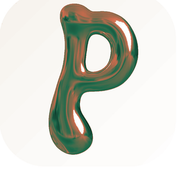
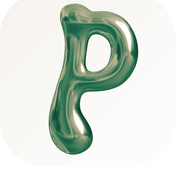
Swap terracotta accent for beige/tan — the coral read as orange, not beige
Replaced every terracotta stop (#d06a4c) with warm neutral beige/tan
tones instead: the logo's highlight streak, the hero's ambient glow,
ScrollStory's particle glow, the OG image gradients, the intro
wordmark sweep, and the glass cube's rim light. Green stays the
dominant primary color throughout — only the warm accent changed.

Changed region(s): [[0.25, 0.0, 0.75, 0.8611]]

diff --git a/src/app/globals.css b/src/app/globals.css
@@ -10,21 +10,21 @@
   --foreground: #16161a;
   --hairline: rgba(20, 20, 24, 0.1);
   --card: #ffffff;
-  /* Forest green + terracotta identity — replaces the earlier single-hue
-     sapphire. Green (growth, "crecer") is the dominant, pervasive brand
-     color (buttons, badges, icons, active states); terracotta is a
-     narrower warm accent used in gradients and highlights, the way it
+  /* Forest green + beige/sand identity — replaces the earlier single-hue
+     sapphire (and a short-lived terracotta accent that read as
+     orange/coral instead of beige — corrected here). Green (growth,
+     "crecer") is the dominant, pervasive brand color (buttons, badges,
+     icons, active states); the aurora-* stops are all warm neutrals —
+     sand, tan, cream — used in gradients and highlights, the way one
      shows up as a highlight streak on the recolored P mark rather than an
-     equal, competing hue. --aurora-highlight is a warm sand/cream instead
-     of the old pale blue, carrying the "beige" half of the palette into
-     every gradient/blob that already reads from it. Var names kept as
-     "aurora-*"/"accent" for a minimal diff footprint even though the hue
-     family has changed twice now. */
+     equal, competing hue. Var names kept as "aurora-*"/"accent" for a
+     minimal diff footprint even though the hue family has changed more
+     than once now. */
   --accent: #1e6b4c;
   --accent-strong: #0a2e23;
   --aurora-highlight: #ece3d8;
-  --aurora-mid: #d06a4c;
-  --aurora-blue: #e3a987;
+  --aurora-mid: #c9b896;
+  --aurora-blue: #ddd0b8;
   --aurora-deep: #04140d;
 }
 
@@ -60,7 +60,7 @@ body {
 }
 
 /* Aurora text: a moving gradient clipped to text, sweeping through the
-   forest-green/terracotta/sand identity — a small shimmer of the same
+   forest-green/beige/sand identity — a small shimmer of the same
    "paint" the P mark and hero object are made of. */
 .aurora-text {
   background: linear-gradient(

diff --git a/src/components/three/GlassCube.tsx b/src/components/three/GlassCube.tsx
@@ -8,7 +8,7 @@ import type { Mesh } from "three";
 /** Praeko's hero object, take two — a solid-feeling glass cube instead of
  * the earlier Möbius strip. A cube reads as grounded and simple rather
  * than "look at this shader," which fits the pivot away from a glossy
- * chrome-and-blue signature toward the forest-green/terracotta identity —
+ * chrome-and-blue signature toward the forest-green/beige identity —
  * the same material language as the recolored P mark, just in 3D. */
 function CubeMesh({ spin }: { spin: boolean }) {
   const mesh = useRef<Mesh>(null);
@@ -70,13 +70,13 @@ export default function GlassCube({ className, active = true }: { className?: st
           <directionalLight position={[2, 3, 4]} intensity={0.9} />
           <CubeMesh spin={!reducedMotion} />
           {/* Procedural studio lighting, warm this time — sand/cream and a
-              terracotta rim light instead of blue, so the glass's own
+              beige rim light instead of blue, so the glass's own
               reflections pick up "Praeko warm" rather than a cold studio
               white, matching the highlight streak on the P mark. */}
           <Environment resolution={256}>
             <Lightformer intensity={2.4} color="#f4eee5" position={[0, 4, -6]} scale={[10, 6, 1]} />
             <Lightformer intensity={1.8} color="white" position={[0, 0, 6]} scale={[8, 8, 1]} />
-            <Lightformer intensity={1.7} color="#d06a4c" position={[-6, 1, 3]} scale={[6, 10, 1]} rotation={[0, Math.PI / 3, 0]} />
+            <Lightformer intensity={1.7} color="#c9b896" position={[-6, 1, 3]} scale={[6, 10, 1]} rotation={[0, Math.PI / 3, 0]} />
             <Lightformer intensity={1.5} color="#ece3d8" position={[6, -1, 3]} scale={[6, 10, 1]} rotation={[0, -Math.PI / 3, 0]} />
             <Lightformer intensity={1} color="white" position={[0, -5, 2]} scale={[10, 4, 1]} />
           </Environment>

diff --git a/src/components/marketing/IntroReveal.tsx b/src/components/marketing/IntroReveal.tsx
@@ -6,10 +6,9 @@ import { hasSeenIntro, markIntroSeen } from "@/lib/marketing/intro-session";
 
 const WORD = "PRAEKO";
 
-// Same forest-green -> terracotta -> sand sweep as the P logomark,
-// expressed as SVG stops instead of a raster LUT, so the wordmark reads as
-// the same material as the brand mark instead of a separate flat-color
-// treatment.
+// Same forest-green -> beige -> sand sweep as the P logomark, expressed as
+// SVG stops instead of a raster LUT, so the wordmark reads as the same
+// material as the brand mark instead of a separate flat-color treatment.
 function GlassDefs({ id }: { id: string }) {
   return (
     <defs>
@@ -17,7 +16,7 @@ function GlassDefs({ id }: { id: string }) {
         <stop offset="0%" stopColor="#04140d" />
         <stop offset="28%" stopColor="#0a2e23" />
         <stop offset="52%" stopColor="#1e6b4c" />
-        <stop offset="74%" stopColor="#d06a4c" />
+        <stop offset="74%" stopColor="#c9b896" />
         <stop offset="90%" stopColor="#ece3d8" />
         <stop offset="100%" stopColor="#ffffff" />
       </linearGradient>

diff --git a/src/app/opengraph-image.tsx b/src/app/opengraph-image.tsx
@@ -36,7 +36,7 @@ export default function OpengraphImage() {
             display: "flex",
             borderRadius: "38% 62% 55% 45% / 45% 40% 60% 55%",
             backgroundImage:
-              "radial-gradient(circle at 35% 30%, #ece3d8 0%, #d06a4c 30%, #1e6b4c 60%, #04140d 100%)",
+              "radial-gradient(circle at 35% 30%, #ece3d8 0%, #c9b896 30%, #1e6b4c 60%, #04140d 100%)",
             opacity: 0.55,
             filter: "blur(10px)",
           }}
@@ -51,7 +51,7 @@ export default function OpengraphImage() {
             display: "flex",
             borderRadius: "55% 45% 40% 60% / 60% 55% 45% 40%",
             backgroundImage:
-              "radial-gradient(circle at 60% 40%, #ece3d8 0%, #e3a987 30%, #1e6b4c 60%, #04140d 100%)",
+              "radial-gradient(circle at 60% 40%, #ece3d8 0%, #ddd0b8 30%, #1e6b4c 60%, #04140d 100%)",
             opacity: 0.5,
             filter: "blur(10px)",
           }}

diff --git a/src/components/marketing/ScrollStory.tsx b/src/components/marketing/ScrollStory.tsx
@@ -185,7 +185,7 @@ function Particle({
         width: size,
         height: size,
         opacity,
-        background: "radial-gradient(circle, #ece3d8 0%, #d06a4c 70%, transparent 100%)",
+        background: "radial-gradient(circle, #ece3d8 0%, #c9b896 70%, transparent 100%)",
         x,
         y,
       }}
@@ -489,7 +489,7 @@ export default function ScrollStory() {
           aria-hidden="true"
           className="pointer-events-none absolute left-1/2 top-1/2 h-[42rem] w-[42rem] -translate-x-1/2 -translate-y-1/2 rounded-full opacity-30 blur-3xl sm:h-[54rem] sm:w-[54rem]"
           style={{
-            background: "radial-gradient(circle, #ece3d8 0%, #d06a4c 45%, transparent 75%)",
+            background: "radial-gradient(circle, #ece3d8 0%, #c9b896 45%, transparent 75%)",
           }}
         />
 

diff --git a/src/components/marketing/Hero.tsx b/src/components/marketing/Hero.tsx
@@ -214,7 +214,7 @@ export default function Hero() {
           <div
             aria-hidden="true"
             className="pointer-events-none absolute inset-x-10 -top-10 bottom-0 -z-10 rounded-[50%] opacity-50 blur-3xl"
-            style={{ background: "radial-gradient(ellipse at center, #ece3d8 0%, #d06a4c 40%, transparent 72%)" }}
+            style={{ background: "radial-gradient(ellipse at center, #ece3d8 0%, #c9b896 40%, transparent 72%)" }}
           />
 
           <motion.div
